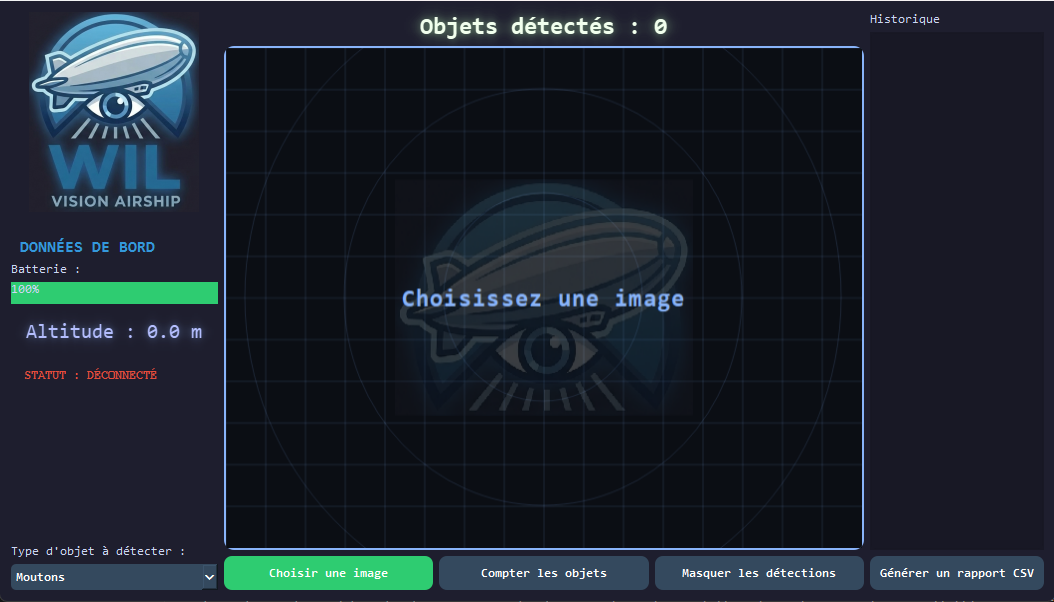
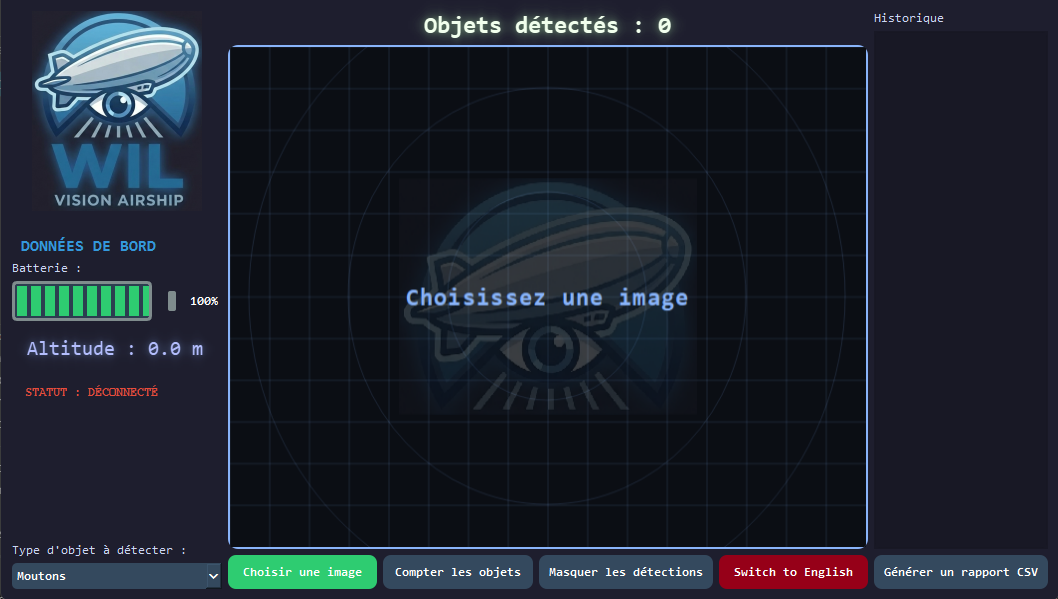
Ajout des images en anglais dans le readme

Changed region(s): [[0.0, 0.0, 1.0, 1.0], [0.3643, 0.4808, 0.6679, 0.5409], [0.8197, 0.0, 0.8805, 0.0601]]

diff --git a/main.py b/main.py
@@ -13,7 +13,7 @@ from random import randint #Pour générer des coordonnées pour les tests
 class StationControleWIL(QWidget):
     def __init__(self):
         super().__init__()
-        self.setWindowTitle("Projet WIL - Interface")
+        self.setWindowTitle("WIL")
         self.resize(1000, 600)
         
         #Initialisation de la BDD

diff --git a/README.md b/README.md
@@ -17,12 +17,12 @@ The WIL Ground Control Station is a graphical interface developed in Python (PyQ
 
 ### Radar Mode (Standby)
 <p align="center">
-  <img src="assets/Projet_WIL-Affichage_standard.png" width="600" title="Radar Interface">
+  <img src="assets/Projet_WIL-Affichage_standard_en.png" width="600" title="Radar Interface">
 </p>
 
 ### Analysis & Detection (In development, currently using simulated detection)
 <p align="center">
-  <img src="assets/detection.png" width="600" title="Object Detections">
+  <img src="assets/detection_en.png" width="600" title="Object Detections">
 </p>
 
 ---
